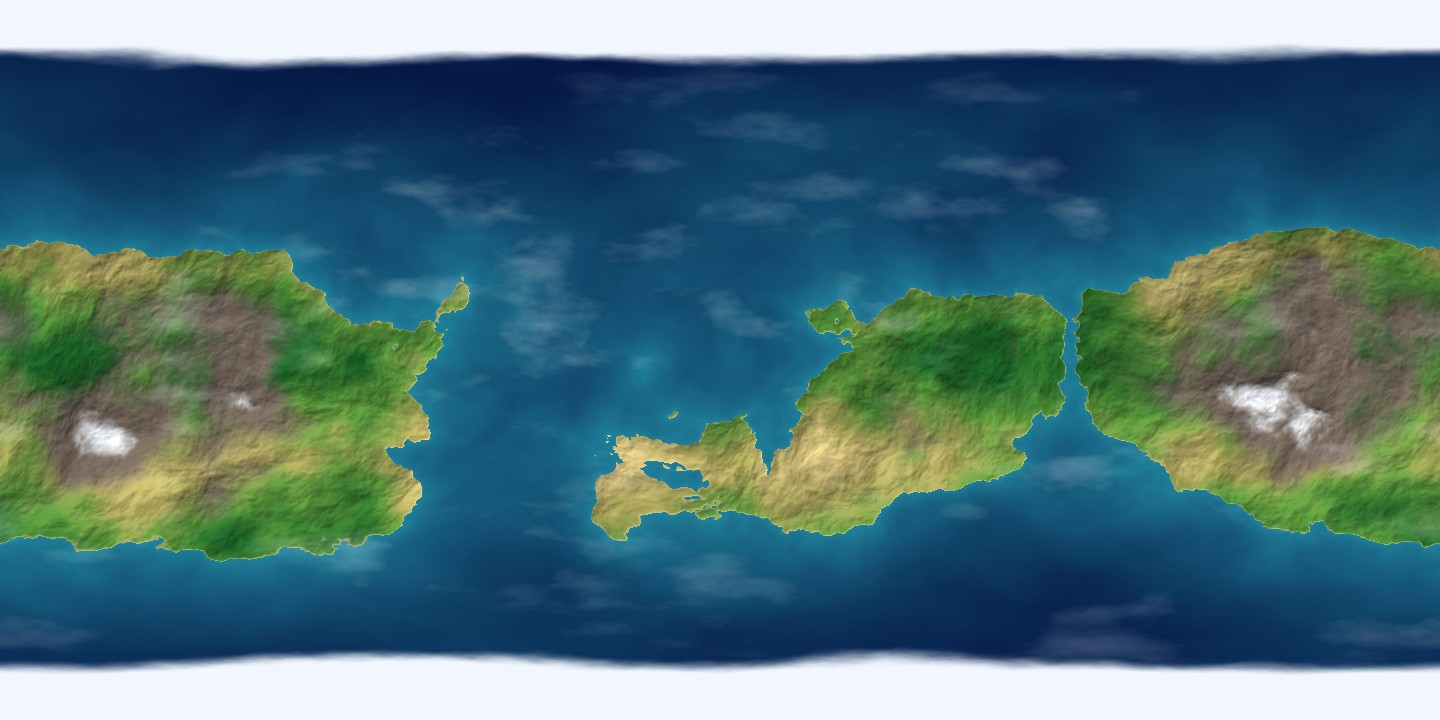
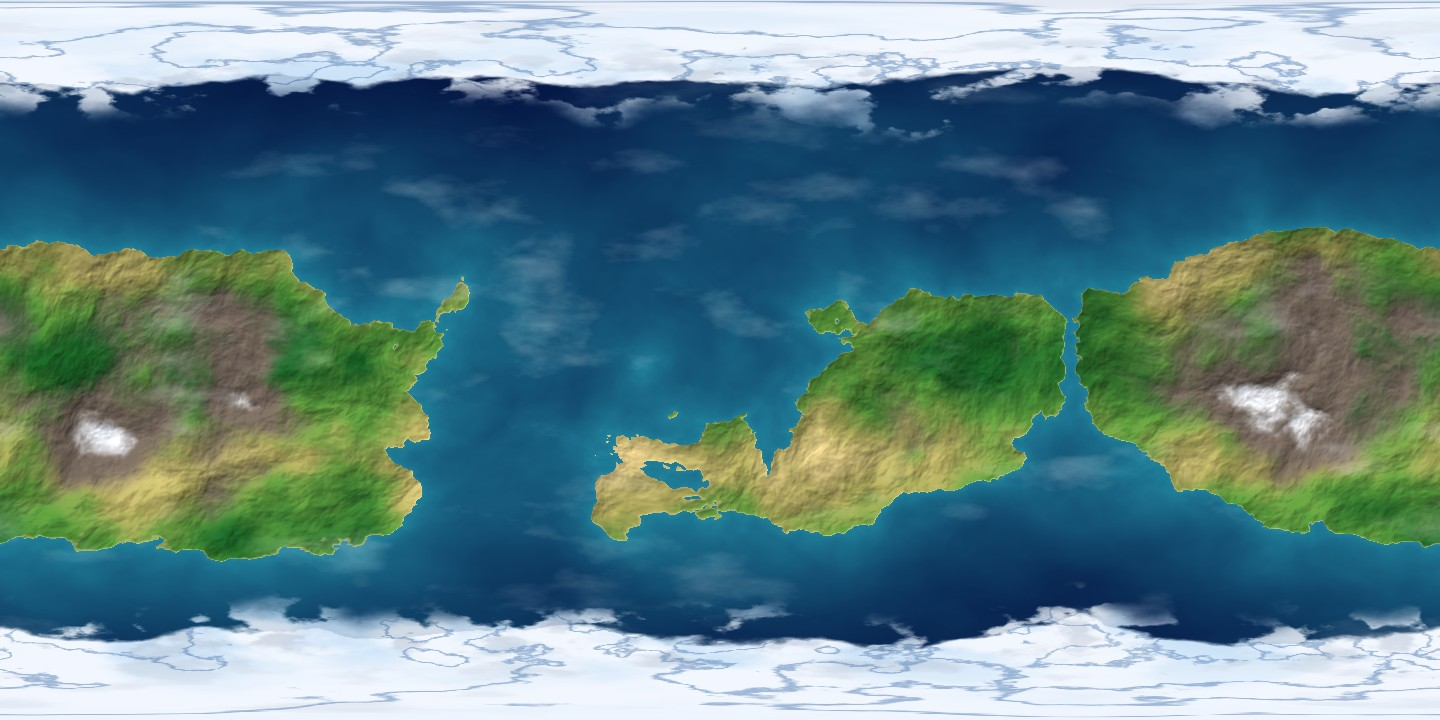
Varied polar ice on worlds 41, 42, 43 and 45: ragged edge, floes, blue and grey tones, crevasses.
revival

diff --git a/tools/generer-terre.py b/tools/generer-terre.py
@@ -1,5 +1,5 @@
 #!/usr/bin/env python3
-"""Usage: generer-terre.py [output folder].
+"""Usage: generer-terre.py [output folder] [world numbers...].
 Generates the earth-like planet textures (img/planete/40.jpg to 45.jpg) from invented continents: 3D noise sampled on a sphere, so the map wraps horizontally with no seam and never copies the real Earth. Water, sand, forest, desert, mountains and snow follow altitude, latitude and moisture."""
 import os
 import sys
@@ -40,14 +40,22 @@ CONIFERE = numpy.array([0.11, 0.29, 0.2])
 TOUNDRA = numpy.array([0.5, 0.5, 0.43])
 ROCHE = numpy.array([0.43, 0.38, 0.34])
 NEIGE = numpy.array([0.95, 0.97, 1.0])
+GLACE_BLEUE = numpy.array([0.74, 0.86, 0.96])
+GLACE_GRISE = numpy.array([0.66, 0.71, 0.78])
+FISSURE = numpy.array([0.36, 0.52, 0.72])
+BANQUISE_LARGEUR = 9.0
+BORD_AMPLITUDE_LENT = 11.0
+BORD_AMPLITUDE_FIN = 4.5
+FISSURE_EPAISSEUR = 0.035
+FISSURE_FORCE = 0.55
 
 MONDES = (
     {'numero': 40, 'graine': 4011, 'terres': 0.3, 'frequence': 0.9, 'nord': 0.35, 'equateur': 0.0, 'froid': 0.0, 'aridite': 0.0, 'nuages': 0.5},
-    {'numero': 41, 'graine': 4177, 'terres': 0.33, 'frequence': 1.7, 'nord': 0.0, 'equateur': 0.0, 'froid': 0.0, 'aridite': 0.05, 'nuages': 0.55},
-    {'numero': 42, 'graine': 4293, 'terres': 0.14, 'frequence': 2.6, 'nord': 0.0, 'equateur': 0.1, 'froid': 0.05, 'aridite': -0.05, 'nuages': 0.6},
-    {'numero': 43, 'graine': 4351, 'terres': 0.38, 'frequence': 1.3, 'nord': 0.0, 'equateur': 0.55, 'froid': 0.0, 'aridite': -0.05, 'nuages': 0.5},
+    {'numero': 41, 'glace_variee': True, 'graine': 4177, 'terres': 0.33, 'frequence': 1.7, 'nord': 0.0, 'equateur': 0.0, 'froid': 0.0, 'aridite': 0.05, 'nuages': 0.55},
+    {'numero': 42, 'glace_variee': True, 'graine': 4293, 'terres': 0.14, 'frequence': 2.6, 'nord': 0.0, 'equateur': 0.1, 'froid': 0.05, 'aridite': -0.05, 'nuages': 0.6},
+    {'numero': 43, 'glace_variee': True, 'graine': 4351, 'terres': 0.38, 'frequence': 1.3, 'nord': 0.0, 'equateur': 0.55, 'froid': 0.0, 'aridite': -0.05, 'nuages': 0.5},
     {'numero': 44, 'graine': 4466, 'terres': 0.35, 'frequence': 1.4, 'nord': 0.15, 'equateur': 0.0, 'froid': 0.28, 'aridite': -0.1, 'nuages': 0.45},
-    {'numero': 45, 'graine': 4589, 'terres': 0.33, 'frequence': 1.2, 'nord': 0.0, 'equateur': 0.0, 'froid': -0.05, 'aridite': 0.3, 'nuages': 0.3},
+    {'numero': 45, 'glace_variee': True, 'graine': 4589, 'terres': 0.33, 'frequence': 1.2, 'nord': 0.0, 'equateur': 0.0, 'froid': -0.05, 'aridite': 0.3, 'nuages': 0.3},
 )
 
 
@@ -116,6 +124,26 @@ def etape(valeurs, debut, fin):
     return lisser(numpy.clip((valeurs - debut) / (fin - debut), 0.0, 1.0))
 
 
+def glace_variee(couleurs, points, latitude, graine):
+    forme_lente = fractal(points, 2.2, graine + 2300) - 0.5
+    forme_fine = fractal(points, 7.0, graine + 2400) - 0.5
+    limite = LATITUDE_CALOTTE - 4.0 + BORD_AMPLITUDE_LENT * 2 * forme_lente + BORD_AMPLITUDE_FIN * 2 * forme_fine
+    distance_pole = numpy.abs(latitude) - limite
+    banquise = fractal(points, 9.0, graine + 2500)
+    morceaux = etape(banquise, 0.5, 0.58) * etape(distance_pole, -BANQUISE_LARGEUR, 0.0)
+    masse = etape(distance_pole, 0.0, 1.6)
+    couverture = numpy.maximum(masse, morceaux * 0.85)
+    ton_bleu = etape(fractal(points, 6.0, graine + 2600), 0.42, 0.62)
+    ton_gris = etape(fractal(points, 16.0, graine + 2700), 0.52, 0.7)
+    glace = melange(numpy.ones(couleurs.shape[:2] + (3,)) * NEIGE, numpy.ones(couleurs.shape[:2] + (3,)) * GLACE_BLEUE, ton_bleu * 0.75)
+    glace = melange(glace, numpy.ones(couleurs.shape[:2] + (3,)) * GLACE_GRISE, ton_gris * 0.45)
+    pole = etape(distance_pole, 0.0, 14.0)
+    glace = melange(glace, numpy.ones(couleurs.shape[:2] + (3,)) * NEIGE, pole * 0.6)
+    fissure = 1.0 - etape(numpy.abs(fractal(points, 11.0, graine + 2800) - 0.5), 0.0, FISSURE_EPAISSEUR)
+    glace = melange(glace, numpy.ones(couleurs.shape[:2] + (3,)) * FISSURE, fissure * FISSURE_FORCE * etape(masse + morceaux, 0.4, 0.9))
+    return melange(couleurs, glace, couverture)
+
+
 def monde(parametres):
     graine = parametres['graine']
     points, latitude = points_sur_sphere()
@@ -147,9 +175,12 @@ def monde(parametres):
     mer_couleur = rampe(numpy.clip(fond, 0.0, 1.0) ** 0.55, ((0.0, OCEAN_CLAIR), (1.0, OCEAN_PROFOND)))
     couleurs = numpy.where(sur_terre[..., None], terre, mer_couleur)
 
-    bruit_calotte = fractal(points, 4.0, graine + 2300) - 0.5
-    calotte = etape(numpy.abs(latitude) + FLOU_CALOTTE * bruit_calotte * 2, LATITUDE_CALOTTE, LATITUDE_CALOTTE + 4.0)
-    couleurs = melange(couleurs, NEIGE, calotte)
+    if parametres.get('glace_variee'):
+        couleurs = glace_variee(couleurs, points, latitude, graine)
+    else:
+        bruit_calotte = fractal(points, 4.0, graine + 2300) - 0.5
+        calotte = etape(numpy.abs(latitude) + FLOU_CALOTTE * bruit_calotte * 2, LATITUDE_CALOTTE, LATITUDE_CALOTTE + 4.0)
+        couleurs = melange(couleurs, NEIGE, calotte)
 
     gradient_y, gradient_x = numpy.gradient(altitude)
     gradient_x = gradient_x / numpy.maximum(numpy.cos(numpy.radians(latitude)), 0.15)
@@ -172,7 +203,10 @@ def rapport_couture(image):
 if __name__ == '__main__':
     destination = sys.argv[1] if len(sys.argv) > 1 else os.path.join(os.path.dirname(os.path.abspath(__file__)), '..', 'img', 'planete')
     os.makedirs(destination, exist_ok=True)
+    numeros = [int(numero) for numero in sys.argv[2:]]
     for parametres in MONDES:
+        if numeros and parametres['numero'] not in numeros:
+            continue
         image = monde(parametres)
         rapport = rapport_couture(image)
         sortie = os.path.join(destination, '%d.jpg' % parametres['numero'])

diff --git a/SUIVI.md b/SUIVI.md
@@ -2,14 +2,10 @@
 
 ## À faire
 
-### 1. Glace des mondes Terre trop lisse (26/11)
+### 1. Améliorer la texture 45 avec un prompt et une référence (26/11)
 
-Ta phrase : « la glace fait trop trait lisse poure 41 42 43 45 fait plus de variation ».
-
-Lu (rien codé) : dans `tools/generer-terre.py`, les calottes polaires sont un blanc presque uni avec un bord quasi droit à latitude fixe (73°) : sur les mondes 41, 42, 43 et 45 on voit une bande lisse en haut et en bas, comme un trait.
-
-Ce que je comprends : une glace avec de la variation : bord très irrégulier (golfes, banquises détachées, îles de glace), nuances de blanc, bleu glacier et gris, fissures et crevasses, zones de neige poudreuse et de glace nue, banquise fine dans l'océan polaire qui s'éclaircit progressivement vers le pôle. Je régénère les quatre mondes cités avec la nouvelle glace ; les mondes 40 et 44 (déjà plus irréguliers) sont regénérés aussi pour que les six restent cohérents, mais leurs continents ne changent pas.
+Ta phrase : « testons de faire ameliorer la 45 avec la finesse par un prompt avec reference ». Je te donne la carte 45 actuelle comme image de référence à joindre dans Gemini et un prompt qui garde les continents et ajoute la finesse réaliste ; à l'import, raccord et rendu du raccord comme les autres.
 
 ## Questions en suspens
 
-1. Je régénère les six (continents identiques, seule la glace change) plutôt que seulement les quatre cités, pour garder un même style de glace partout. Je recommande les six.
+Aucune.
